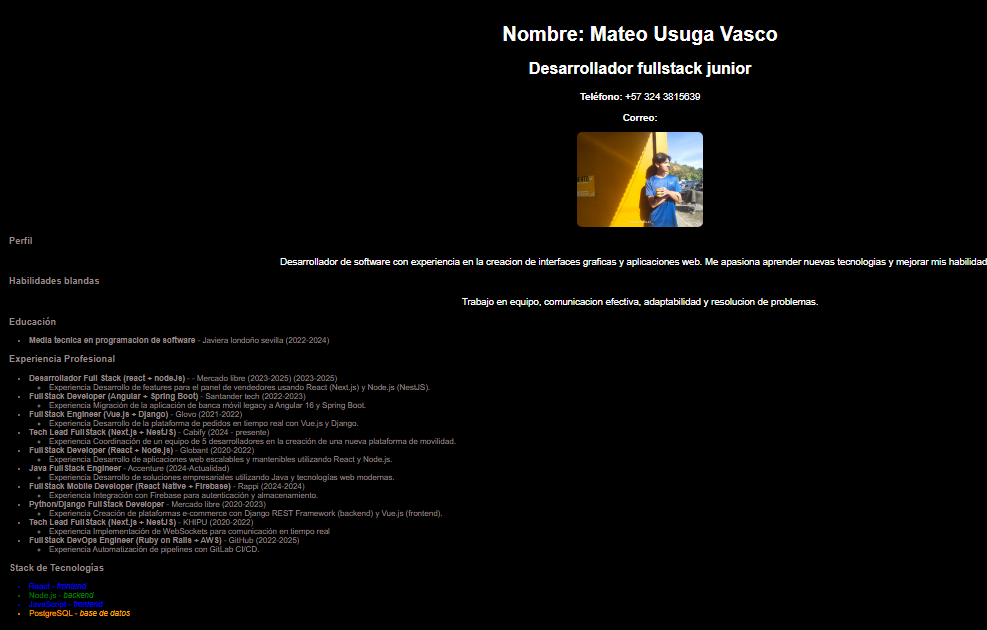
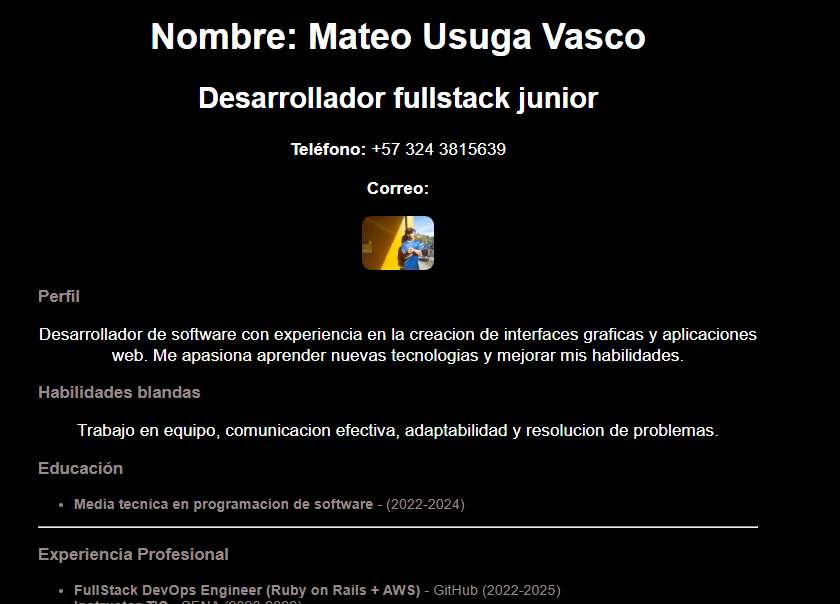
docs: actualizacion del README.md con la explicacion de que son los props, y una imagen actualizada de la apariencia de la pagina

diff --git a/README.md b/README.md
@@ -19,3 +19,6 @@ imagen de la pagina:
 
 instrucciones: 
 Para iniciar el proyecto ejecutar en la terminal "npm start dev" y seleccionar el link que se deja despues de la ejecucion del comando.
+
+Explicacion del uso de props:
+Los props o propiedades funcionan como bloques de codigo facilmente reutilizables para cualquier parte de la pagina, estos siendo transmitidos de componentes padres a componentes hijo, y como funcionan como bloques de codigo en donde se pueden introducir cualquier dato que queramos pasar por las paginas, son altamente versatiles y faciles de transmitir entre componentes en donde se necesite.
